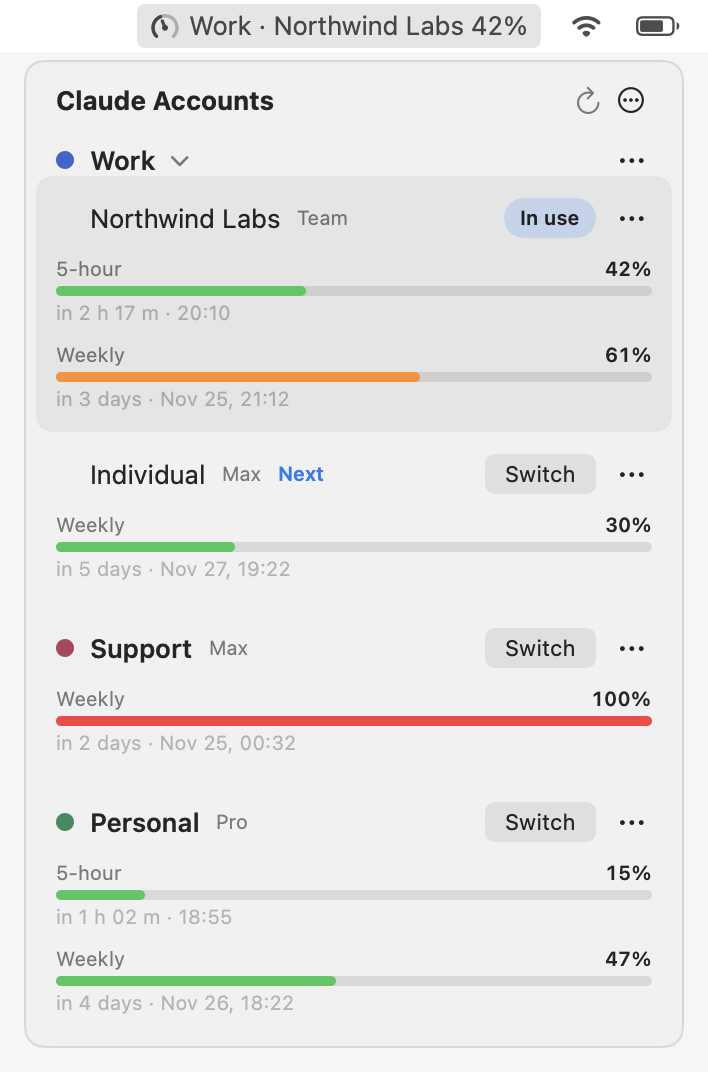
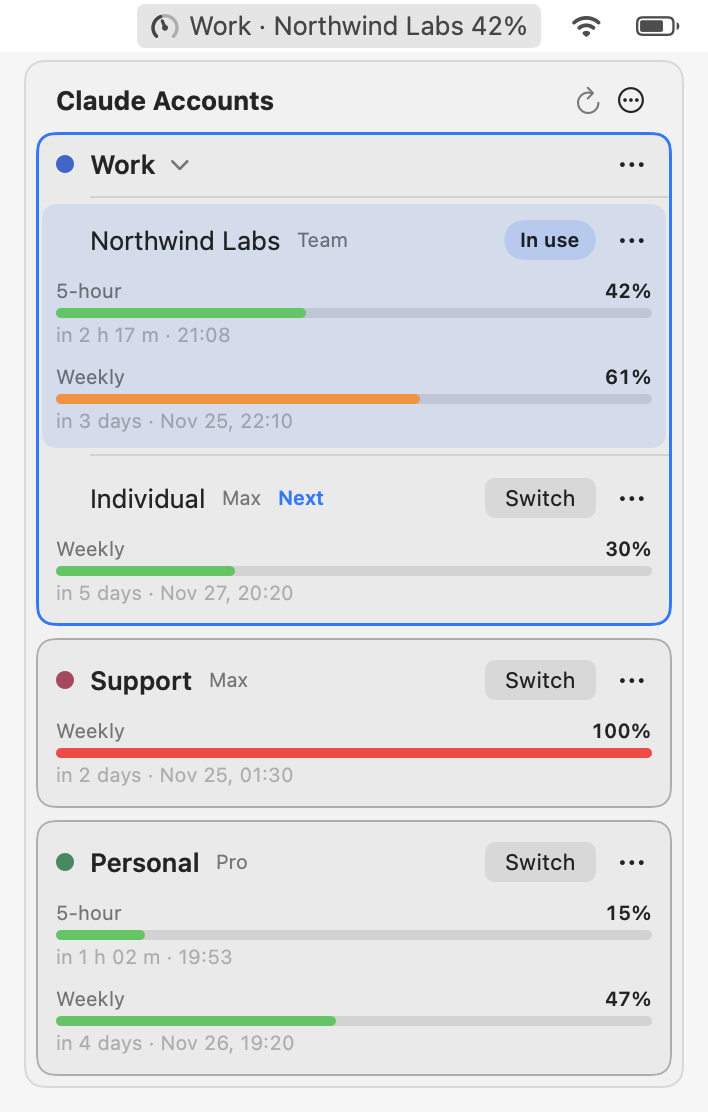
draw the readme and social pictures with account cards, and bump the build to 9

diff --git a/app/ClaudeAccounts.swift b/app/ClaudeAccounts.swift
@@ -2105,8 +2105,7 @@ struct Card<Content: View>: View {
         let quiet = contrast == .increased ? Color.primary.opacity(0.55) : Color(nsColor: .tertiaryLabelColor)
         content
             .background(shape.fill(fill))
-            .overlay(shape.strokeBorder(edge ?? quiet,
-                                        lineWidth: edge == nil ? 1 : 1.5))
+            .overlay(shape.strokeBorder(edge ?? quiet, lineWidth: edge == nil ? 1 : 1.5))
             .clipShape(shape)
     }
 }
@@ -2460,7 +2459,7 @@ struct MenuContent: View {
                     .fixedSize(horizontal: false, vertical: true)
                     .padding(10)
             }
-            // One entry per account; an account in several organizations lists each beneath its
+            // One card per account; an account in several organizations lists each beneath its
             // name, shown until its name is clicked to fold them away.
             let groups = store.accounts.groupedByAccount()
             let next = store.nextRow
